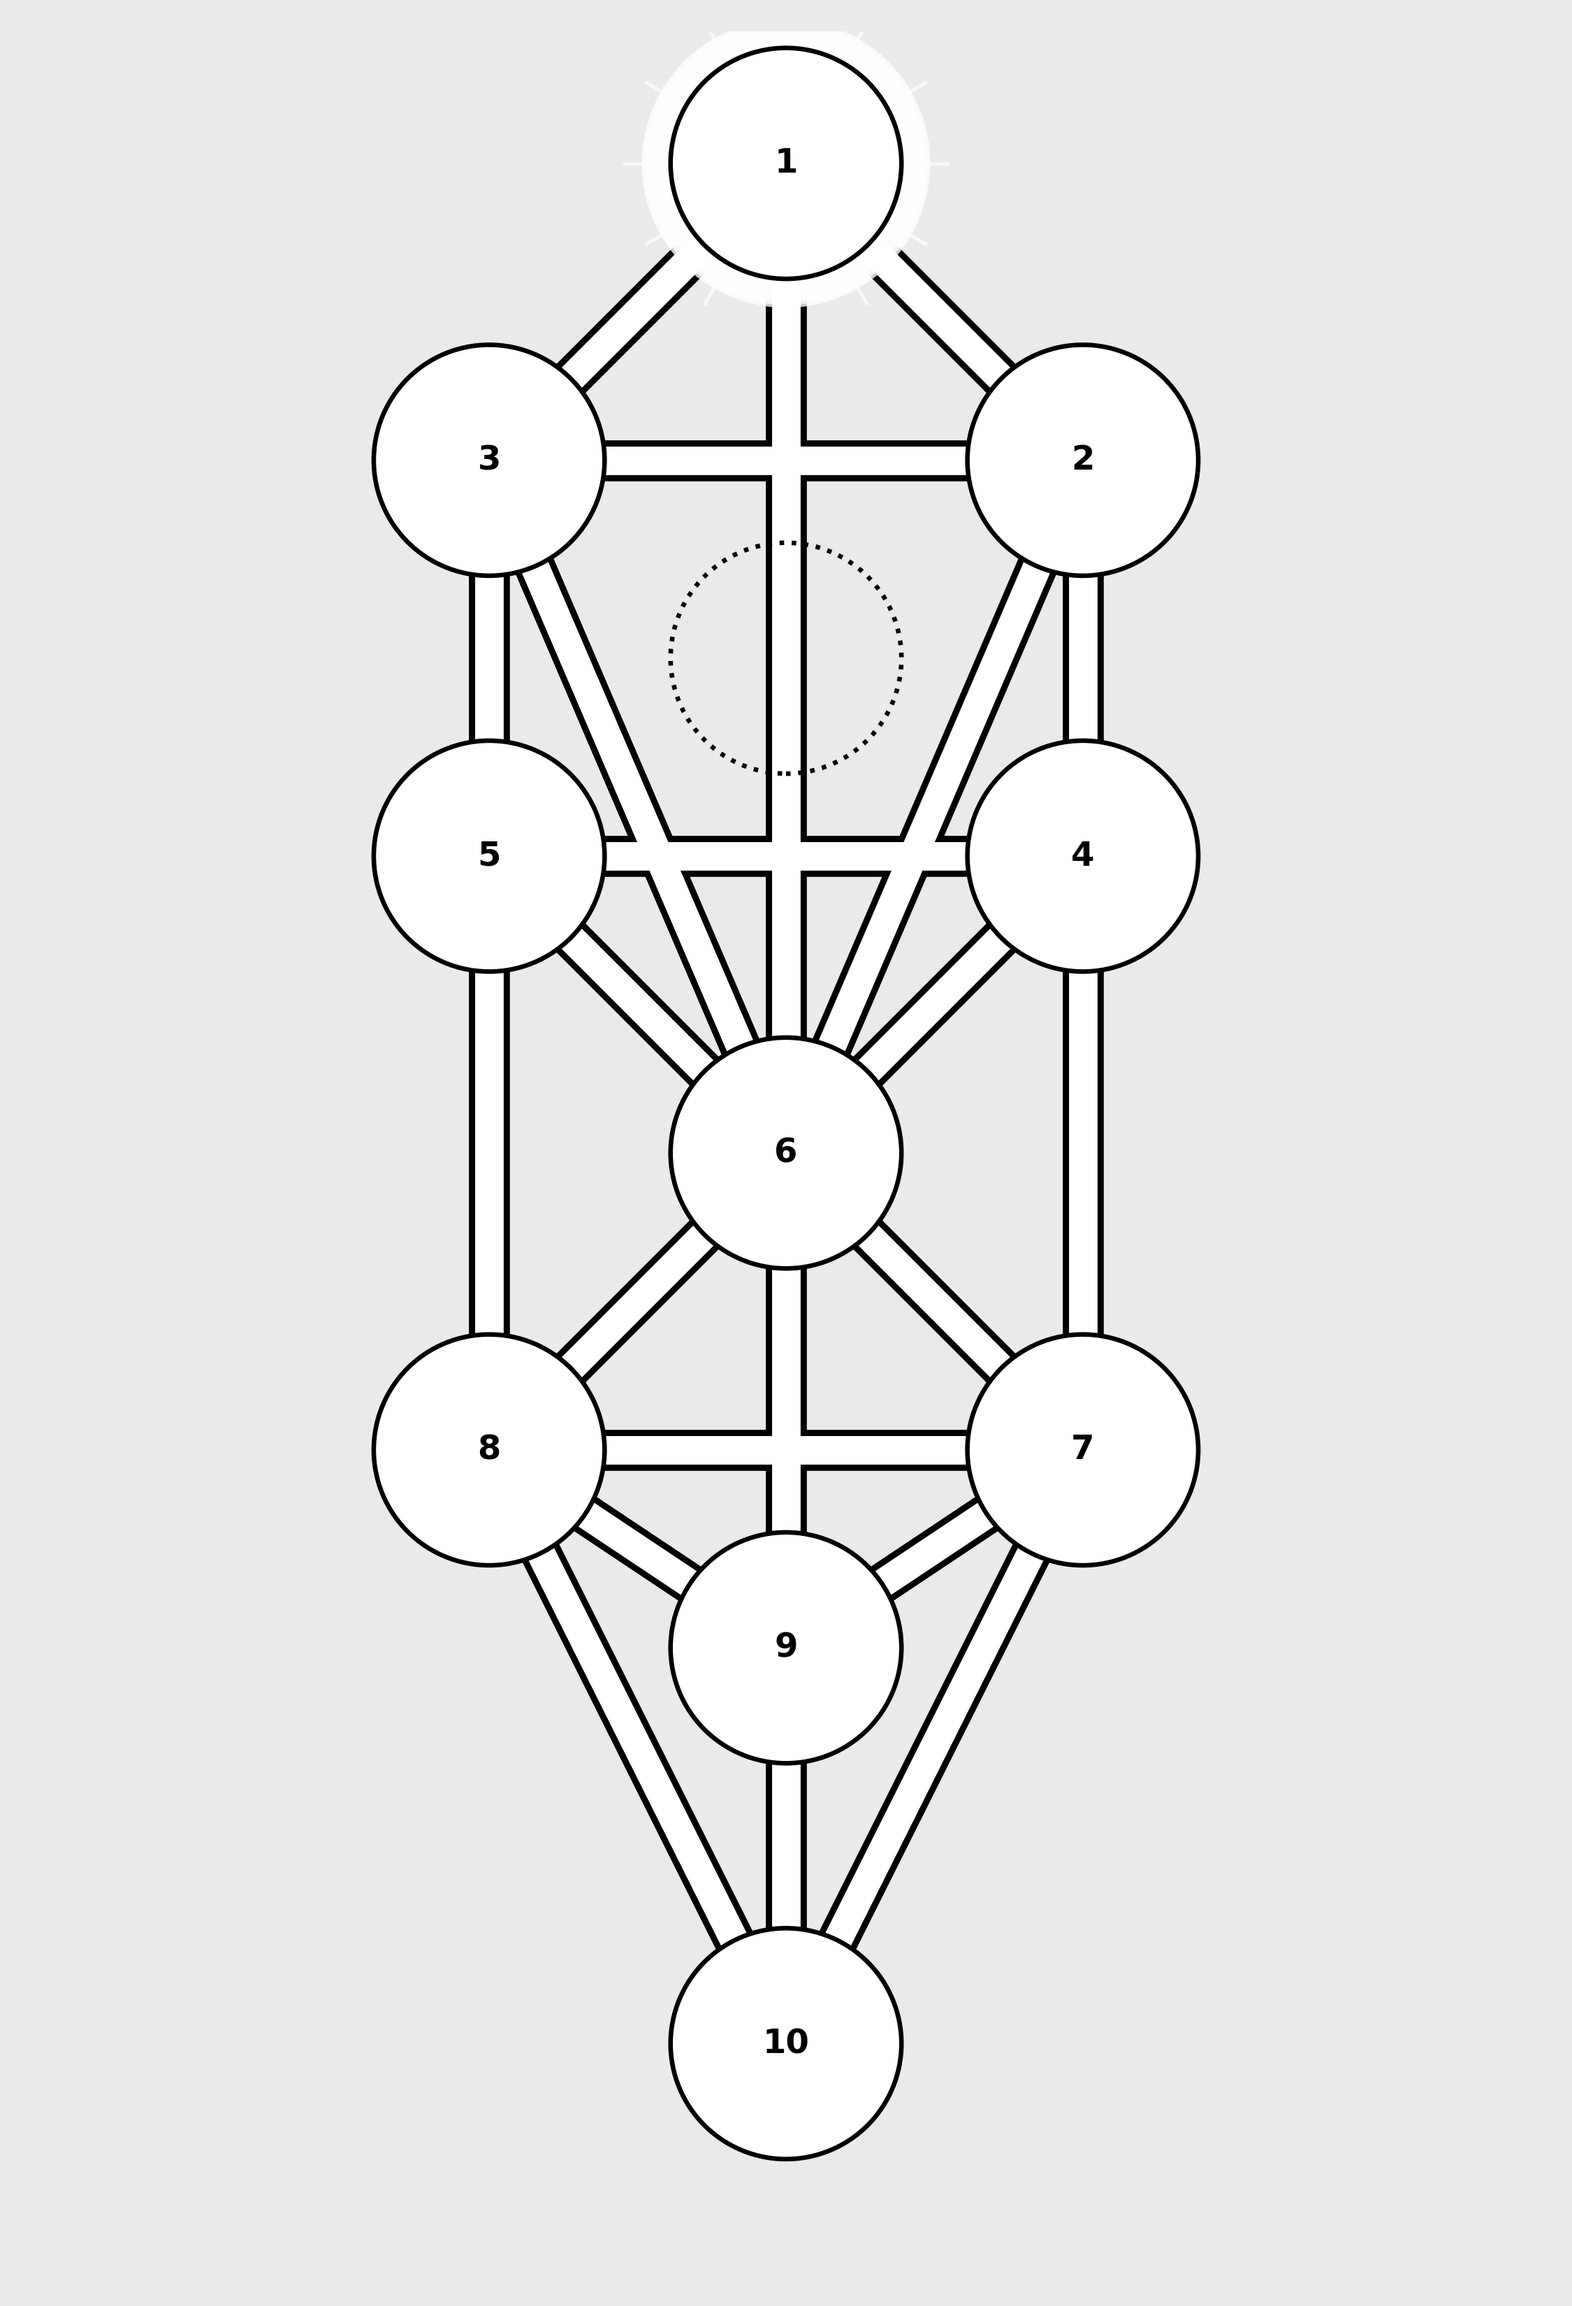
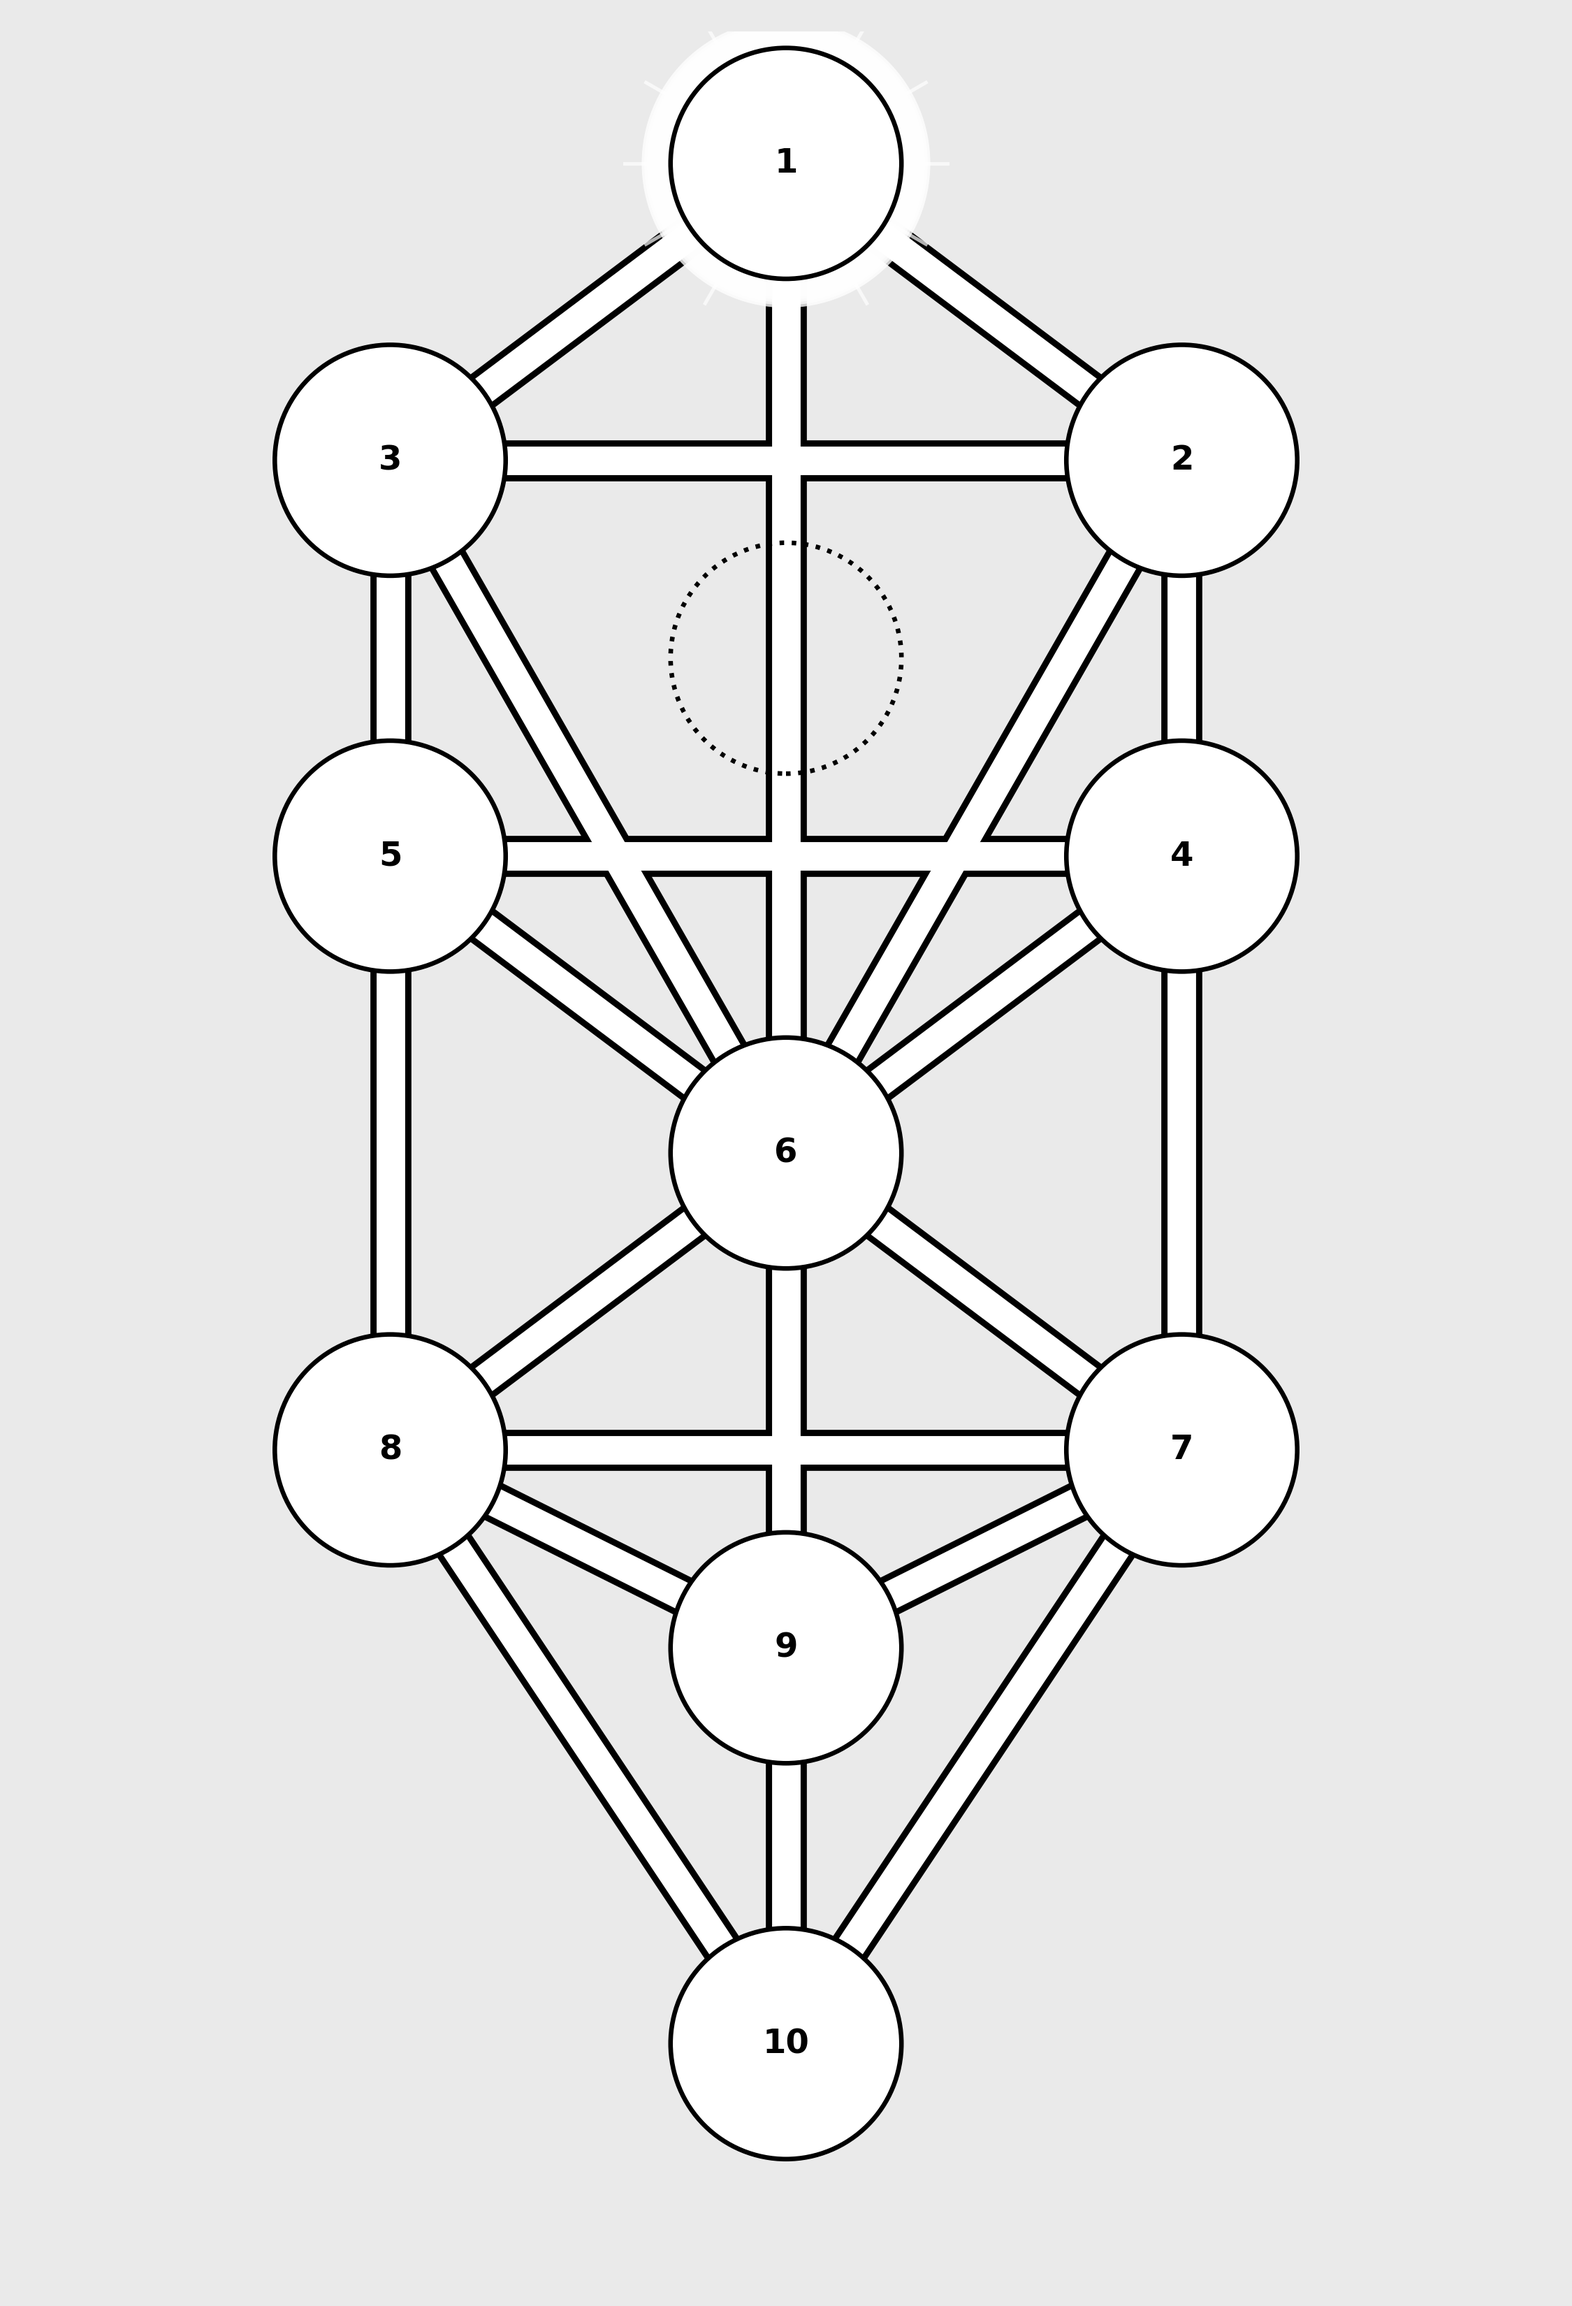
style: adjust sephirot positions for better symmetry and alignment

diff --git a/new_tree.py b/new_tree.py
@@ -32,19 +32,20 @@ def draw_tree_of_life(output_filename: str = None) -> None:
     sephirot_coords: List[Coord] = [
         # 0: Kether (Top center)
         (0 * spacing_factor, 9 * spacing_factor),
-        # 1: Chokmah (Top right)
-        (1.5 * spacing_factor, 7.5 * spacing_factor),
-        (-1.5 * spacing_factor, 7.5 * spacing_factor),         # 2: Binah (Top left)
-        # 3: Chesed (Mid right)
-        (1.5 * spacing_factor, 5.5 * spacing_factor),
-        # 4: Geburah (Mid left)
-        (-1.5 * spacing_factor, 5.5 * spacing_factor),
+        # 1: Chokmah (Top right) - moved further right to match Chesed
+        (2.0 * spacing_factor, 7.5 * spacing_factor),
+        # 2: Binah (Top left) - moved further left to match Geburah
+        (-2.0 * spacing_factor, 7.5 * spacing_factor),
+        # 3: Chesed (Mid right) - moved further right
+        (2.0 * spacing_factor, 5.5 * spacing_factor),
+        # 4: Geburah (Mid left) - moved further left
+        (-2.0 * spacing_factor, 5.5 * spacing_factor),
         # 5: Tiphereth (Center) - moved to geometric center of Chesed, Geburah, Netzach, and Hod
         (0 * spacing_factor, 4.0 * spacing_factor),
-        # 6: Netzach (Bottom right)
-        (1.5 * spacing_factor, 2.5 * spacing_factor),
-        # 7: Hod (Bottom left)
-        (-1.5 * spacing_factor, 2.5 * spacing_factor),
+        # 6: Netzach (Bottom right) - adjusted to align with Chesed
+        (2.0 * spacing_factor, 2.5 * spacing_factor),
+        # 7: Hod (Bottom left) - adjusted to align with Geburah
+        (-2.0 * spacing_factor, 2.5 * spacing_factor),
         # 8: Yesod (Bottom center)
         (0 * spacing_factor, 1.5 * spacing_factor),
         # 9: Malkuth (Bottom) - adjusted position
@@ -115,7 +116,8 @@ def draw_tree_of_life(output_filename: str = None) -> None:
     ax.set_facecolor('#EAEAEA')      # Set background color of the axes area
 
     # Set plot limits with some padding to accommodate the larger spheres and adjusted spacing
-    ax.set_xlim(-3.5, 3.5)  # Adjusted based on spacing factor
+    # Expanded to accommodate wider sephirot positioning
+    ax.set_xlim(-4.0, 4.0)
     # Extended lower limit to accommodate Malkuth's new position
     ax.set_ylim(-2.5, 14.5)
 
